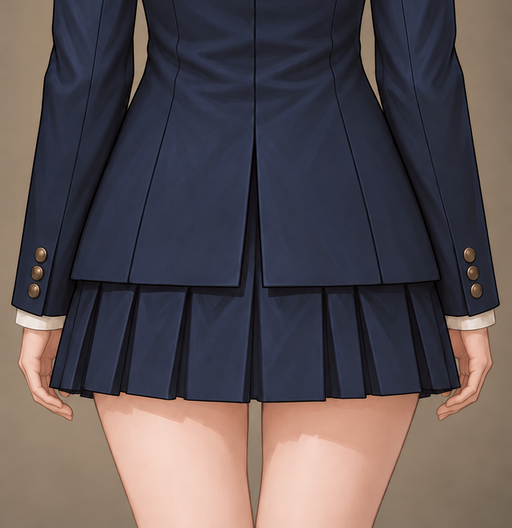
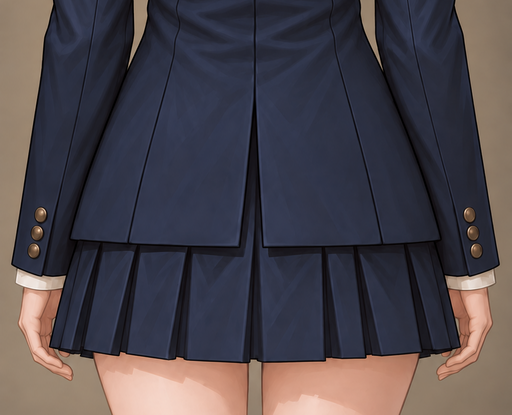
修订下装近景与腰臀方向结构 163

diff --git a/wardrobe-samples-illustrated/正式素材/下装/README.md b/wardrobe-samples-illustrated/正式素材/下装/README.md
@@ -8,7 +8,7 @@
 | --- | --- | --- | --- |
 | 藏青百褶短裙 · 正面 | [查看图片](藏青百褶短裙/正面.png) | 512x445 | 修订：仅纯裁切收近正面镜头，保留同套下装完整前片和双手；人物服装无重绘。 |
 | 藏青百褶短裙 · 侧面 | [查看图片](藏青百褶短裙/侧面.png) | 512x512 | 下装修订：已上传，待视觉复核。 |
-| 藏青百褶短裙 · 背面 | [查看图片](藏青百褶短裙/背面.png) | 512x528 | 已自检：款式、对应视角、人物比例与灰调厚涂近景。 |
+| 藏青百褶短裙 · 背面 | [查看图片](藏青百褶短裙/背面.png) | 512x415 | 修订：从原纯背面图做更近的纯裁切，保留西装后中缝、后开衩、裙后片与完整双手；未重绘。 |
 | 格纹百褶短裙 · 正面 | [查看图片](格纹百褶短裙/正面.png) | 512x490 | 修订：仅纯裁切收近正面镜头，保留同套下装完整前片和双手；人物服装无重绘。 |
 | 格纹百褶短裙 · 侧面 | [查看图片](格纹百褶短裙/侧面.png) | 512x512 | 下装修订：已上传，待视觉复核。 |
 | 格纹百褶短裙 · 背面 | [查看图片](格纹百褶短裙/背面.png) | 512x512 | 下装修订：已上传，待视觉复核。 |

diff --git a/wardrobe-samples-illustrated/正式素材/下装/藏青百褶短裙/README.md b/wardrobe-samples-illustrated/正式素材/下装/藏青百褶短裙/README.md
@@ -8,6 +8,6 @@
 | --- | --- | --- | --- | --- |
 | 共用 | 正面 | [查看](正面.png) | 512x445 | 修订：仅纯裁切收近正面镜头，保留同套下装完整前片和双手；人物服装无重绘。 |
 | 共用 | 侧面 | [查看](侧面.png) | 512x512 | 下装修订：已上传，待视觉复核。 |
-| 共用 | 背面 | [查看](背面.png) | 512x528 | 已自检：款式、对应视角、人物比例与灰调厚涂近景。 |
+| 共用 | 背面 | [查看](背面.png) | 512x415 | 修订：从原纯背面图做更近的纯裁切，保留西装后中缝、后开衩、裙后片与完整双手；未重绘。 |
 
 [统一制作规范](../../../制作规范.md)

diff --git a/wardrobe-samples-illustrated/README.md b/wardrobe-samples-illustrated/README.md
@@ -258,6 +258,7 @@
 
 
 
+
 ## 正式素材进度
 
 已生成独立服装素材 **185 / 185** 张、独立人物锚点 **10 / 10** 张。
